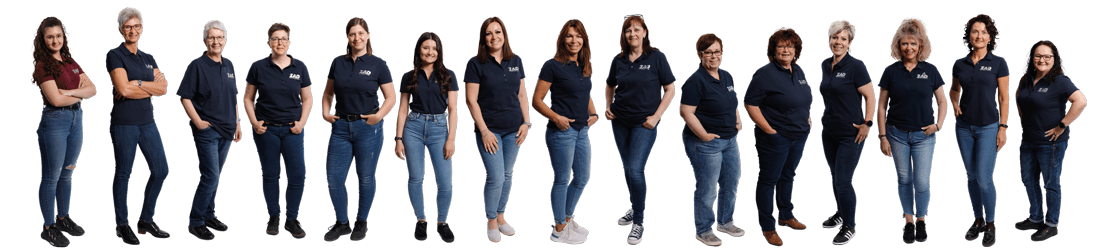
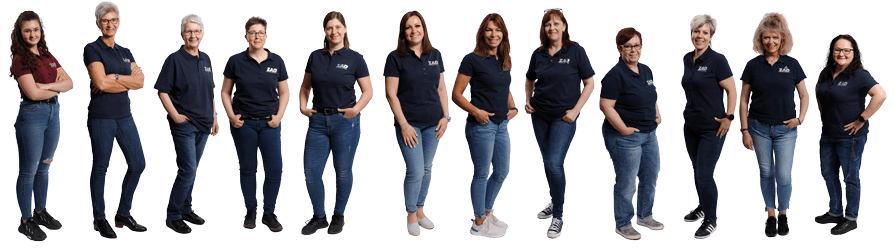
Januar 2024 Änderungen (Impressum, Fotos, Team etc.)

diff --git a/components/teamData.js b/components/teamData.js
@@ -1,14 +1,14 @@
 const teamData = {
   geschaeftsfuehrung: [
-    {
-      name: "Ulrike Niesen",
-      title: "Geschäftsführung",
-      phone: "05551 / 96 88-0",
-      fax: "05551 / 96 88-77",
-      email: "ulrike.niesen@zad-northeim.de",
-      image: "niesen_ulrike",
-      imageHover: "niesen_ulrike",
-    },
+    // {
+    //   name: "Ulrike Niesen",
+    //   title: "Geschäftsführung",
+    //   phone: "05551 / 96 88-0",
+    //   fax: "05551 / 96 88-77",
+    //   email: "ulrike.niesen@zad-northeim.de",
+    //   image: "niesen_ulrike",
+    //   imageHover: "niesen_ulrike",
+    // },
     {
       name: "Irina Niesen",
       title: "Geschäftsführung",
@@ -17,6 +17,15 @@ const teamData = {
       email: "irina.niesen@zad-northeim.de",
       image: "niesen_irina_1",
       imageHover: "niesen_irina_2",
+    },
+    {
+      name: "Alexander Niesen",
+      title: "Geschäftsführung",
+      phone: "05551 / 96 88-0",
+      fax: "05551 / 96 88-77",
+      email: "alexander.niesen@zad-northeim.de",
+      image: "aniesen_2_1",
+      imageHover: "aniesen_2_2",
     },
   ],
   vertrieb: [
@@ -159,14 +168,14 @@ const teamData = {
       image: "schuster_1",
       imageHover: "schuster_2",
     },
-    {
-      name: "Heike Manteufel",
-      title: "Zentrale",
-      phone: "05551 / 96 88-0",
-      fax: "05551 / 96 88-88",
-      image: "manteufel_1",
-      imageHover: "manteufel_2",
-    },
+    // {
+    //   name: "Heike Manteufel",
+    //   title: "Zentrale",
+    //   phone: "05551 / 96 88-0",
+    //   fax: "05551 / 96 88-88",
+    //   image: "manteufel_1",
+    //   imageHover: "manteufel_2",
+    // },
     {
       name: "Jennifer Zinnecker",
       title: "Vertrieb",

diff --git a/pages/unternehmen.js b/pages/unternehmen.js
@@ -238,7 +238,7 @@ function Unternehmen() {
         <Image
           src={"/images/unternehmen/team_pflegeabrechnung.png"}
           alt="Team Pflegeabrechnung"
-          width={1243}
+          width={894}
           height={250}
         />
       </div>
@@ -247,8 +247,8 @@ function Unternehmen() {
         <Image
           src={"/images/unternehmen/team_krankentransport.png"}
           alt="Team Krankentransportabrechnung"
-          width={1099}
-          height={252}
+          width={894}
+          height={250}
         />
       </div>
       <div className="text-center mx-auto mt-24  px-4 md:px-16 lg:px-0">

diff --git a/pages/hinweisgeberstelle.js b/pages/hinweisgeberstelle.js
@@ -31,7 +31,7 @@ function Impressum() {
       <p>
         Sie erhalten von uns per Mail Rückmeldungen, können bei Bedarf Fragen
         beantworten und werden über den Fortgang Ihres Hinweises informiert. Sie
-        erhalten Antworten ohne, dass sie dort identifiziert werden können. Im
+        erhalten Antworten ohne, dass Sie dort identifiziert werden können. Im
         Rahmen dieser Kommunikation entscheiden Sie über die weitere Art der
         Kommunikation, hier sind auch vertrauliche persönliche Treffen mit
         unserer Ombudsperson möglich. Es besteht ebenfalls die Möglichkeit

diff --git a/pages/kontakt.js b/pages/kontakt.js
@@ -74,7 +74,7 @@ function Kontakt() {
             persönlicher Ansprechpartner ist immer für Sie da – so, als säßen
             Sie ihm direkt gegenüber.
           </p>
-          <div className="my-10 flex flex-col md:flex-row flex-wrap md:space-x-20 items-center space-y-10 md:space-y-0">
+          <div className="my-10 flex flex-col md:flex-row flex-wrap md:space-x-20 space-y-10 md:space-y-0">
             {teamData.zentrale.map((person, i) => {
               return (
                 <TeamDetail

diff --git a/pages/stellenangebote.js b/pages/stellenangebote.js
@@ -49,8 +49,8 @@ function Stellenangebote() {
             <Image
               src="/images/unternehmen/teamfoto.png"
               className=" object-cover rounded "
-              width={1393}
-              height={334}
+              width={971}
+              height={300}
               objectFit="cover"
             />
           </div>

diff --git a/pages/impressum.js b/pages/impressum.js
@@ -24,9 +24,9 @@ function Impressum() {
       <p>
         <strong>Geschäftsführung:</strong>
         <br />
-        Ulrike Niesen
-        <br />
         Irina Niesen
+        <br />
+        Alexander Niesen
       </p>
       <p>
         Handelsregister: Amtsgericht Göttingen
